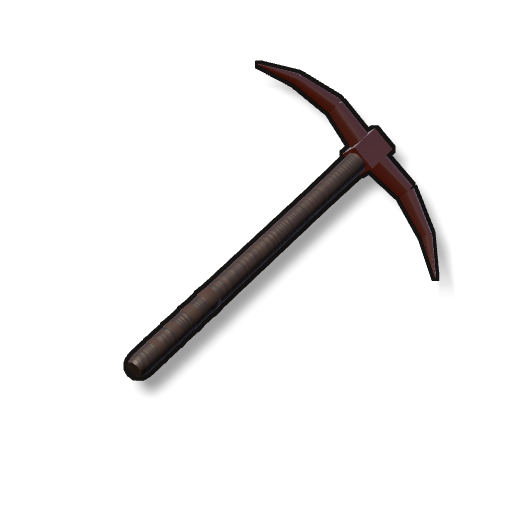
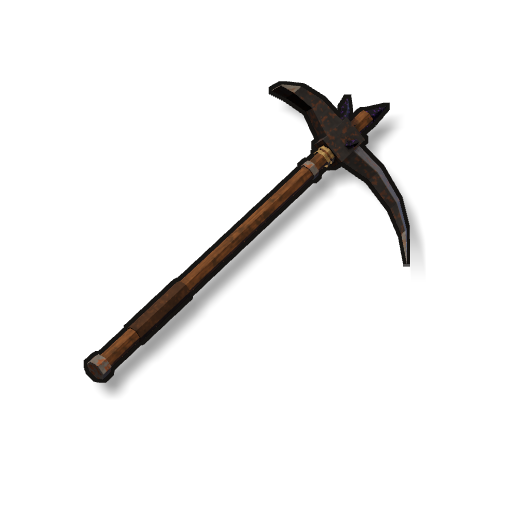
Harl's Black Pick you can loot now looks like his
The weapon uses the model Harl fights with, sized for a player, and its
inventory icon is rendered from it. Stats and drop odds unchanged.

Changed region(s): [[0.1562, 0.0938, 0.875, 0.7812]]

diff --git a/HANDOFF.md b/HANDOFF.md
@@ -49,7 +49,7 @@ Phases 1-15 are built: movement, combat, multiplayer, three classes with talents
 
 **White Knight character (2026-11-25, branch `claude/keen-fermat-7zze30`):** a full 3D White Knight (great helm with the cross slit, mail, ivory tabard with the red cross, pauldrons, vambraces, gauntlets, belts and pouch, knee-high boots), built from the owner's character sheet (`docs/white_knight/`), not from the game's other armour. Shapes are fitted to the sheet's front/back/side views; the colours are the sheet itself, projected onto the model (tabard, armour, leather, boots), the helmet close-ups on the helm, and a chainmail tile cut from the sheet. One skinned mesh (13,800 triangles, 5 materials) on the mannequin skeleton, so every animation works; the mannequin body is hidden under it. Use `assets/characters/white_knight/white_knight.tscn` (a CharacterModel). Pictures: `docs/white_knight/white_knight_model_sheet.jpg`. Rebuild: `python3 tools/white_knight_textures.py`, `--import`, then `tools/build_white_knight.gd`; pictures with `tests/visual_white_knight.gd`. **The White Knight Zealot wears it** (owner, 2026-11-25): `game/enemies/zealot.tscn` uses `white_knight_model.gd`, so every Zealot (spawns, checkpoint, camp raids) has the look; it carries a heater shield painted with the sheet's tabard cross (`WK_heater_shield.scn`) and the steel sword from the equipment pack. enemy, combat, zone and camp checks pass. Picture: `docs/white_knight/zealot_in_game.jpg`.
 
-**Bandit characters (2026-11-25):** four code-built, low-poly, hand-painted bandits on the UAL1 skeleton (3,600-4,100 triangles each, 768 px painted texture), from the owner's reference sheets pasted into chat. Swordsman (`bandit.tscn`, on `bandit_sword`, steel sword + wooden round shield), mace man (`bandit_brute.tscn`, on `bandit_pick`, iron mace), hooded masked lookout (`bandit_rogue.tscn`, steel dagger + iron-rim shield) and crossbowman (`bandit_marksman.tscn`, both archers; code-built crossbow held two-handed by `crossbow_hold.gd` over the old shooting animation). Only look lines changed in the enemy scenes and data: no stats, attacks, AI or loot. **All other bandits followed (2026-11-25, owner: the quarry bandits too):** Dark Ages Marauders (two looks, `marauder` / `marauder_b`, picked from the enemy's name so every player sees the same one; fur mantle, rust red), the Captain (iron cap, shoulder plates, plum cloak, steel sword + iron-rim shield), Rook (red neckcloth and cloak, iron sword) and Hobb (bald, grey beard, noose). Marauders and Hobb carry a code-built bearded axe (`BD_axe.scn`, hangs blade up when calm). **Harl (2026-11-25):** built from `GULLET_DESIGN.md` section 6 (`harl_parts.gd`, `harl_model.gd`, about 5,300 triangles, 1024 px textures plus glow maps): torn miner's coat, mail shirt, dented brimmed helmet with a candle stub, black stone shards, marked left arm, black-dusted hands, own sharpened pick (`BD_harl_pick.scn`). In phase 2, after he finishes kneeling, the marks spread to his face and the stone glows (worked out on each machine from the shared boss phase; the old flat purple tint is ignored). The purple wash during Corrupted Grip is unchanged. The loot weapon "Harl's Black Pick" still uses its old placeholder model. Rebuild only Harl: `tools/build_bandit.gd -- harl` (about 90 s). `Bandit_Sword.glb` is now unused. All in `assets/characters/bandit/`: shapes in `bandit_*.gd`, outfits and colours in `bandit_outfits.gd`; rebuild with `tools/build_bandit.gd` (new textures need `--import` and a second run). Inspect: `levels/sandbox/bandit_showroom.tscn` (F6; V = next bandit, Space = animation). Check `bandit_check`; pictures `tests/visual_bandit.gd` and `docs/bandit/`. Not playtested by hand. Open: the lookout's dagger hits at sword reach. The owner likes them for now and wants higher-poly characters later (`DESIGN.md` 12.1). Shields stowed on a back (Captain, Zealots, bandits) lie flat, face out.
+**Bandit characters (2026-11-25):** four code-built, low-poly, hand-painted bandits on the UAL1 skeleton (3,600-4,100 triangles each, 768 px painted texture), from the owner's reference sheets pasted into chat. Swordsman (`bandit.tscn`, on `bandit_sword`, steel sword + wooden round shield), mace man (`bandit_brute.tscn`, on `bandit_pick`, iron mace), hooded masked lookout (`bandit_rogue.tscn`, steel dagger + iron-rim shield) and crossbowman (`bandit_marksman.tscn`, both archers; code-built crossbow held two-handed by `crossbow_hold.gd` over the old shooting animation). Only look lines changed in the enemy scenes and data: no stats, attacks, AI or loot. **All other bandits followed (2026-11-25, owner: the quarry bandits too):** Dark Ages Marauders (two looks, `marauder` / `marauder_b`, picked from the enemy's name so every player sees the same one; fur mantle, rust red), the Captain (iron cap, shoulder plates, plum cloak, steel sword + iron-rim shield), Rook (red neckcloth and cloak, iron sword) and Hobb (bald, grey beard, noose). Marauders and Hobb carry a code-built bearded axe (`BD_axe.scn`, hangs blade up when calm). **Harl (2026-11-25):** built from `GULLET_DESIGN.md` section 6 (`harl_parts.gd`, `harl_model.gd`, about 5,300 triangles, 1024 px textures plus glow maps): torn miner's coat, mail shirt, dented brimmed helmet with a candle stub, black stone shards, marked left arm, black-dusted hands, own sharpened pick (`BD_harl_pick.scn`). In phase 2, after he finishes kneeling, the marks spread to his face and the stone glows (worked out on each machine from the shared boss phase; the old flat purple tint is ignored). The purple wash during Corrupted Grip is unchanged. The loot weapon "Harl's Black Pick" (it drops from Harl, the Captain and Rook) is that model at 0.75 size (`harls_black_pick.tscn`), with a matching inventory icon (`tools/render_extra_icons.gd -- item_harls_pick`). Rebuild only Harl: `tools/build_bandit.gd -- harl` (about 90 s). `Bandit_Sword.glb` is now unused. All in `assets/characters/bandit/`: shapes in `bandit_*.gd`, outfits and colours in `bandit_outfits.gd`; rebuild with `tools/build_bandit.gd` (new textures need `--import` and a second run). Inspect: `levels/sandbox/bandit_showroom.tscn` (F6; V = next bandit, Space = animation). Check `bandit_check`; pictures `tests/visual_bandit.gd` and `docs/bandit/`. Not playtested by hand. Open: the lookout's dagger hits at sword reach. The owner likes them for now and wants higher-poly characters later (`DESIGN.md` 12.1). Shields stowed on a back (Captain, Zealots, bandits) lie flat, face out.
 
 ## Which file is which
 | File | Use |

diff --git a/TODO.md b/TODO.md
@@ -329,5 +329,6 @@ Design: [`GULLET_DESIGN.md`](GULLET_DESIGN.md) and `GULLET_MAP.svg`. Replaces th
 - [x] New looks for every other bandit: Marauders (quarry, camps, raids), Bandit Captain, Rook, Hobb (2026-11-25)
 - [ ] 🧪 Walk the quarry and the Hobb camp: do the Marauders, the Captain, Rook and Hobb look right beside the Gullet bandits?
 - [x] Harl the Delver's own look and pick, with the marks spreading and the stone glowing in phase 2 (2026-11-25)
-- [ ] 🧪 Fight Harl: can you read the attacks with the new coat and pick, and is the second-phase glow clear enough in the dark chamber? His loot pick still has the old stand-in model: say if it should match
+- [x] The Harl's Black Pick you can loot uses his new pick model and has a matching inventory icon (2026-11-25)
+- [ ] 🧪 Fight Harl: can you read the attacks with the new coat and pick, and is the second-phase glow clear enough in the dark chamber?
 - [ ] 🧪 Walk the Gullet and look at the four bandits calm and fighting: can you tell them apart in the dark, and does the lookout's dagger feel like it reaches too far?
